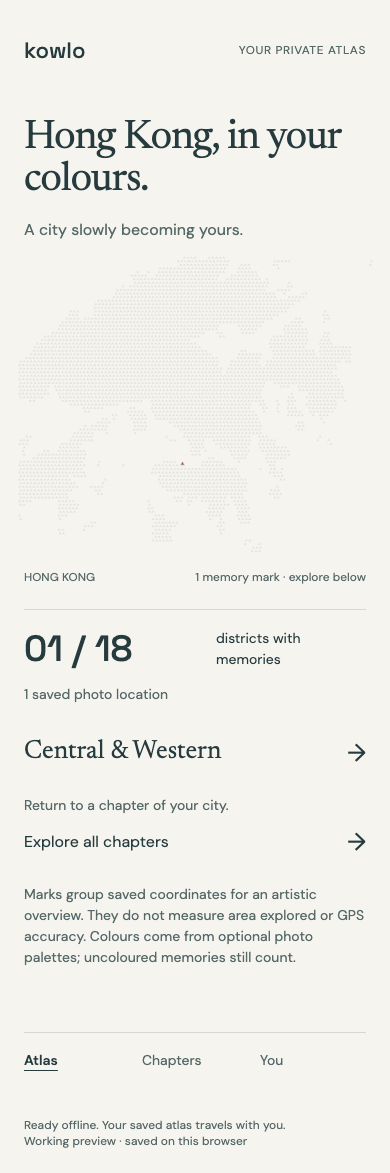
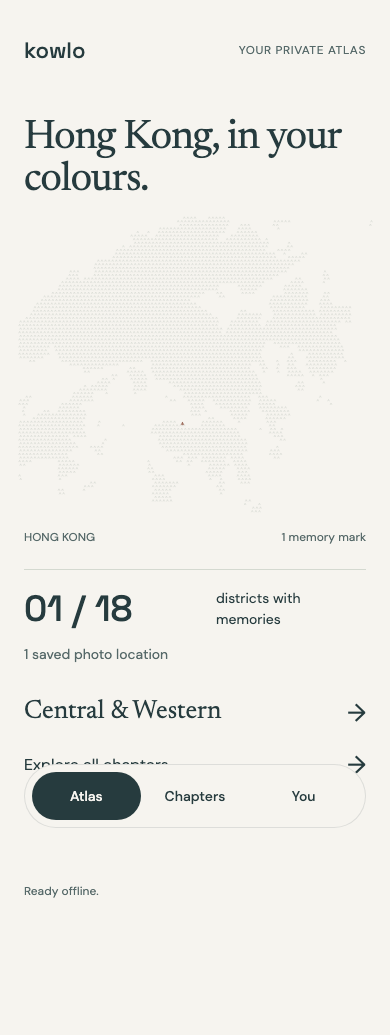
Refine KOWLO navigation, essential copy and accessible motion

diff --git a/app/styles.css b/app/styles.css
@@ -6,4 +6,71 @@
 .shell{max-width:1152px;margin:auto;padding:0 24px}.masthead{display:flex;align-items:center;justify-content:space-between;gap:16px;padding:36px 0 30px}.brand{font:500 22px/28px "Space Grotesk",sans-serif;text-decoration:none}.eyebrow,figcaption,footer{font-size:12px;line-height:16px;color:var(--muted)}.eyebrow{text-transform:uppercase;letter-spacing:.05em}
 main{min-height:60vh;padding:24px 0}main:focus{outline:none}h1,h2,h3,p,figure{margin:0}h1{font:400 40px/1.05 Newsreader,Georgia,serif;letter-spacing:-.02em;max-width:650px}h2{font:400 30px/1.1 Newsreader,Georgia,serif}h3,.chapter-title{font:400 26px/1.16 Newsreader,Georgia,serif}p{margin-top:16px;color:var(--muted)}.intro{max-width:580px}.atlas-figure{position:relative;margin:12px -8px 24px}.atlas-map{width:100%;height:auto;display:block;overflow:visible}.atlas-map .mark{stroke-width:2.4;stroke-linecap:round;stroke-linejoin:round;fill:none}.atlas-map .point{fill:var(--ink)}figcaption{display:flex;justify-content:space-between;gap:12px;margin:12px 8px 0}.summary{border-top:1px solid var(--line);padding:18px 0 22px}.district-total{display:flex;align-items:center;justify-content:space-between;gap:20px}.number{font:500 36px/42px "Space Grotesk",sans-serif;white-space:nowrap}.number span{color:var(--muted)}.count-label{font-size:14px;max-width:150px}.summary>p{font-size:14px;margin-top:14px}.text-link{display:flex;align-items:center;justify-content:space-between;gap:16px;min-height:52px;text-decoration:none}.text-link::after{content:"→";font:24px "DM Sans",sans-serif}.chapter-list,.memory-list{list-style:none;padding:0;margin:26px 0}.chapter-list>li,.memory-list>li{border-top:1px solid var(--line);padding:14px 0}.chapter-meta{display:flex;align-items:center;justify-content:space-between;gap:12px;color:var(--muted);font-size:14px}.swatches{display:flex;gap:5px;align-items:center}.swatches svg{width:14px;height:14px}.section-space{margin-top:36px}.back{display:inline-flex;min-height:48px;align-items:center;font-size:14px;margin-bottom:18px}.evidence{margin:26px 0;display:grid;grid-template-columns:1fr;gap:18px}.evidence dt{font-size:12px;color:var(--muted);text-transform:uppercase;letter-spacing:.03em}.evidence dd{margin:4px 0 0;overflow-wrap:anywhere}.note{white-space:pre-wrap;overflow-wrap:anywhere;color:var(--ink)}label{display:block;margin:24px 0 8px}textarea,input{display:block;background:transparent;border:1px solid var(--line);border-radius:0;width:100%;padding:12px}textarea{min-height:130px;resize:vertical}button{min-height:48px;padding:10px 18px;border:1px solid var(--ink);background:transparent;margin:16px 12px 0 0}.primary{background:var(--ink);color:var(--paper)}.danger{color:#8a3934;border-color:#8a3934}.notice{font-size:14px;max-width:640px}.empty{padding:24px 0}.empty h2{max-width:480px}details{margin:28px 0;border-top:1px solid var(--line);padding-top:12px}summary{cursor:pointer;min-height:48px;display:flex;align-items:center}.snapshot-note{font-size:14px}.download{display:inline-flex;align-items:center;min-height:48px}.skip{position:absolute;left:16px;top:-100px;background:var(--paper);padding:12px;z-index:2}.skip:focus{top:8px}#status{font-size:14px;min-height:24px;margin:0 0 16px}nav{border-top:1px solid var(--line);display:flex;gap:12px}nav a{display:flex;align-items:center;min-height:56px;flex:1;text-decoration:none;font-size:14px;color:var(--muted)}nav a[aria-current=page]{color:var(--ink);font-weight:600;text-decoration:underline}footer{padding:12px 0 24px}hr{border:0;border-top:1px solid var(--line);margin:28px 0}
 @media(min-width:800px){.shell{padding:0 48px}.masthead{padding:42px 0}.brand{font-size:26px}main{padding:38px 0;min-height:68vh}h1{font-size:60px;line-height:1.04}.atlas-layout{display:grid;grid-template-columns:minmax(280px,.8fr) minmax(360px,1.2fr);gap:20px 48px;align-items:center}.atlas-layout>.intro{grid-column:1;grid-row:1}.atlas-layout>.atlas-figure{grid-column:2;grid-row:1/3;margin:0}.atlas-layout>.atlas-details{grid-column:1;grid-row:2}.chapter-list,.memory-list{max-width:760px}.detail{max-width:760px}.evidence{grid-template-columns:1fr 1fr}nav{max-width:420px}footer{padding-bottom:28px}}
-@media(prefers-reduced-motion:no-preference){.atlas-map .mark{animation:appear .5s ease-out}@keyframes appear{from{opacity:0}to{opacity:1}}}
+
+/* Approved Figma component 215:235: paper glass with an opaque ink selection. */
+html{scroll-padding-bottom:calc(112px + env(safe-area-inset-bottom, 0px))}
+body{padding-bottom:calc(112px + env(safe-area-inset-bottom, 0px))}
+.main-navigation{
+  position:fixed;
+  z-index:10;
+  left:50%;
+  bottom:calc(16px + env(safe-area-inset-bottom, 0px));
+  transform:translateX(-50%);
+  width:calc(100% - 48px);
+  max-width:342px;
+  height:64px;
+  padding:8px;
+  gap:0;
+  border:0;
+  border-radius:32px;
+  background:var(--paper);
+  box-shadow:inset 0 0 0 1px rgb(38 59 62 / 12%);
+}
+.main-navigation a{
+  position:relative;
+  z-index:1;
+  justify-content:center;
+  min-width:0;
+  min-height:48px;
+  border-radius:24px;
+  color:var(--ink);
+  font-size:14px;
+  font-weight:500;
+  line-height:20px;
+  text-decoration:none;
+}
+.main-navigation::before{
+  content:"";
+  position:absolute;
+  inset:8px auto 8px 8px;
+  width:calc((100% - 16px) / 3);
+  border-radius:24px;
+  background:var(--ink);
+  transform:translateX(calc(var(--selected-tab, 0) * 100%));
+  opacity:0;
+  pointer-events:none;
+}
+.main-navigation[data-has-selection=true]::before{opacity:1}
+.main-navigation a[aria-current=page]{color:var(--paper);font-weight:500;text-decoration:none}
+@media(prefers-reduced-motion:no-preference){
+  body[data-ready=true] .main-navigation::before{transition:transform 220ms cubic-bezier(.22,1,.36,1)}
+  .main-navigation a{transition:color 220ms cubic-bezier(.22,1,.36,1)}
+  .text-link::after{transition:transform 160ms cubic-bezier(.22,1,.36,1)}
+  .primary,.danger{transition:transform 120ms ease-out}
+  .primary:active,.danger:active{transform:scale(.98)}
+}
+@media(hover:hover) and (prefers-reduced-motion:no-preference){
+  .text-link:hover::after{transform:translateX(3px)}
+}
+.main-navigation a:focus-visible{outline:2px solid var(--ink);outline-offset:3px}
+@supports ((backdrop-filter:blur(20px)) or (-webkit-backdrop-filter:blur(20px))){
+  .main-navigation{background:rgb(246 244 239 / 90%);-webkit-backdrop-filter:blur(20px);backdrop-filter:blur(20px)}
+}
+@media(prefers-reduced-transparency:reduce){
+  .main-navigation{background:var(--paper);-webkit-backdrop-filter:none;backdrop-filter:none}
+}
+@media(forced-colors:active){
+  .main-navigation::before{display:none}
+  .main-navigation{border:1px solid CanvasText;padding:7px;background:Canvas}
+  .main-navigation a[aria-current=page]{outline:2px solid Highlight;outline-offset:-2px}
+}

diff --git a/app/index.html b/app/index.html
@@ -2,7 +2,7 @@
 <html lang="en">
 <head>
   <meta charset="utf-8">
-  <meta name="viewport" content="width=device-width, initial-scale=1">
+  <meta name="viewport" content="width=device-width, initial-scale=1, viewport-fit=cover">
   <meta name="theme-color" content="#f6f4ef">
   <title>KOWLO — Hong Kong, in your colours</title>
   <link rel="icon" href="/docs/design-assets/kowlo-symbol.svg" type="image/svg+xml">
@@ -18,8 +18,8 @@
     <header class="masthead"><a href="#atlas" class="brand" aria-label="KOWLO home">kowlo</a><span class="eyebrow">Your private atlas</span></header>
     <main id="main" tabindex="-1"><h1>A city taking shape.</h1><p>Opening your local memories…</p></main>
     <p id="status" role="status" aria-live="polite"></p>
-    <nav aria-label="Main navigation"><a href="#atlas">Atlas</a><a href="#chapters">Chapters</a><a href="#you">You</a></nav>
-    <footer><p id="offline-status" role="status">Preparing offline access…</p>Working preview · saved on this browser</footer>
+    <nav class="main-navigation" aria-label="Main navigation"><a href="#atlas">Atlas</a><a href="#chapters">Chapters</a><a href="#you">You</a></nav>
+    <footer><p id="offline-status" role="status">Preparing offline access…</p></footer>
   </div>
 </body>
 </html>

diff --git a/docs/MOTION_FOUNDATION.md b/docs/MOTION_FOUNDATION.md
@@ -1,0 +1,47 @@
+# KOWLO motion foundation
+
+Updated 2026-09-08. Applies to the working atlas and the current Figma navigation variants.
+
+## Colour settles into place
+
+Photographs give the city its colours. Motion should make a change understandable, then become quiet. Geography stays anchored: a saved coordinate does not drift, bounce or move because a screen opened. The folded marks and photographic palettes carry KOWLO's identity; motion supports them.
+
+Every effect must explain a destination change, a changed memory, or a deliberate interaction. Repeated visits should not replay an introduction or imply new achievements. Product screens carry actions, state and necessary consequences. Design rationale belongs in this document.
+
+## Research and implementation choice
+
+| Source | Relevant learning | KOWLO decision |
+| --- | --- | --- |
+| [Motion performance guidance](https://motion.dev/docs/performance) and [Motion source](https://github.com/motiondivision/motion) | Prefer suitable transform/opacity animation; browser acceleration depends on the animated property and rendering conditions. Motion offers a broader animation system. | Use transform for the shared navigation pill and opacity for changed marks. Do not claim guaranteed GPU acceleration or frame rates. |
+| [Anime.js source](https://github.com/juliangarnier/anime) | Timelines and coordinated animation can serve complex scenes. | A timeline library is unnecessary for the current three small interaction patterns. |
+| [WCAG: Animation from Interactions](https://www.w3.org/WAI/WCAG22/Understanding/animation-from-interactions.html) | Users should be able to disable non-essential interaction-triggered motion. | Honour the operating-system reduced-motion preference, including a change while animation is running. |
+
+The Motion and Anime.js repositories were checked as MIT-licensed and not archived during this research. Neither dependency was installed or copied. The existing application uses plain JavaScript; CSS transitions and the browser Web Animations API provide the required cancellation and interpolation without another runtime dependency. Reconsider a library only when a demonstrated interaction requires orchestration that this approach cannot maintain clearly.
+
+These sources inform the mechanism. The timings below are KOWLO design choices, not scientifically established universal optima.
+
+## Motion contract
+
+| Interaction | Behaviour | Timing |
+| --- | --- | --- |
+| Atlas / Chapters / You | One opaque ink pill moves horizontally between equal targets. Text colour follows selection. | 220 ms, cubic-bezier(.22,1,.36,1) |
+| Route change | The new title settles from 60% opacity to full opacity. The map stays still. | 180 ms, same easing |
+| New or changed map mark on the same route | Changed marks fade into their final geographic cell. Unchanged marks do not replay. | 320 ms; 12 ms stagger capped at 120 ms |
+| Primary or destructive button press | Small press response, retaining the full hit target. | Scale .98, 120 ms ease-out |
+| Text-link hover with a mouse | Arrow moves 3 px towards its destination. | 160 ms, same easing |
+
+No looping ambient effects, confetti, parallax, spring overshoot or entrance sequence is needed. Selection remains visible after animation ends. Changing routes cancels obsolete Web Animations effects; rapid navigation must settle on the current destination.
+
+## Accessibility and layout
+
+- Reduced motion removes CSS transitions and skips/cancels Web Animations effects. Content and selection appear immediately.
+- Navigation remains semantic links with `aria-current`, keyboard focus and 48 px minimum targets. Animation is never the sole indicator of selection.
+- The floating surface uses paper at 90% opacity, a restrained border and 20 px blur. Opaque paper is the fallback; reduced transparency disables blur; forced colours use a visible selection outline.
+- Bottom spacing includes the safe-area inset and enough scroll room to reveal the final content above the navigation.
+- Exact coordinates, uncertain location evidence, storage scope and export consequences remain available. Repeated slogans and technical commentary are removed from the primary reading flow.
+
+## Figma and code
+
+The editable component set `236:270` contains Atlas `215:235`, Chapters `236:254` and You `236:262`. Each has a shared pill layer and consistent labels. Prototype navigation uses 220 ms Smart Animate with Figma's ease-out preset. This is an approximation of the CSS easing; runtime reduced-motion behaviour is implemented in the app.
+
+Sources: [app motion](../app/atlas.mjs), [styles](../app/styles.css), [implementation evidence](evidence/essential-motion-implementation.md). Physical-device performance and large-library animation cost remain to be measured before production release.

diff --git a/docs/evidence/essential-motion-implementation.md b/docs/evidence/essential-motion-implementation.md
@@ -1,0 +1,35 @@
+# Restoration, essential copy and motion
+
+Date: 2026-09-08. Scope: KOWLO working web app and existing Figma review frames. Dedicated GitHub remote: `EricEremos/kowlo`.
+
+## Restoration
+
+Restored 132 missing tracked files from the existing HEAD, `4fd6efb`, without replacing modified files. Before/after hashes of the pre-existing modified files matched; no tracked deletions remained. This verifies restoration, not why the files had disappeared. Unrelated timestamp-suffixed Markdown copies were preserved and excluded from this change.
+
+## Changes
+
+- Integrated the previously approved floating Atlas / Chapters / You navigation.
+- Removed repeated slogans, map instructions, diagnostic navigation and the development footer. Kept relevant empty states and failure messages.
+- Moved geographic evidence into closed-by-default Location details; moved storage and atlas explanations into disclosures on You. Export consequences remain next to export.
+- Added the cancellable motion contract in [Motion foundation](../MOTION_FOUNDATION.md): shared selection pill, short title transition, changed-mark reveal and restrained press/hover feedback.
+- Advanced static cache to v4. Existing update waiting and draft preservation remain in place.
+- Updated Figma Atlas `213:220`, Chapters `216:245` and You `213:243`. Component set `236:270` has three selected-destination variants; instances and reusable component reactions point to the current three frames with 220 ms Smart Animate. Removed the Chapters subtitle and corrected storage copy on You.
+
+## Verification
+
+- `node --check app/atlas.mjs`: passed.
+- `npm test`: 46/46 unit tests passed.
+- `scripts/atlas-browser-checks.mjs`: nine groups passed, including five route types at 320/390/768/1440 px, 48 px navigation targets, content clearance, keyboard activation, persistent notes, deletion/export and integrity failure handling. Rapid tab changes settle on the correct selection. Switching reduced motion on cancels effects and disables the pill transition. No page errors or external requests.
+- `scripts/atlas-offline-checks.mjs`: six groups passed. Server-stopped offline reload, edits, deletion and export work. Waiting updates preserve drafts; obsolete-cache cleanup is scoped. Only 18 static resources are cached.
+- Manually used the live app in the Codex in-app browser at port 8788: Atlas → Chapters → You, opened Photo access & storage, then returned to Atlas. Observed the expected destination headings, selected pills and expanded copy. Browser error log was empty.
+- Visually inspected updated desktop/mobile app renders and Figma Chapters/You renders. No overlap or clipping was observed in those checked surfaces. The map remains the visual focus; section rules replace additional containers.
+
+Machine-readable results and synthetic screenshots: [Chromium](atlas/chromium-checks.json), [offline](atlas/offline-checks.json), [mobile atlas](atlas/atlas-mobile.png), [desktop atlas](atlas/atlas-desktop.png). Test records were synthetic in isolated browser contexts; no personal photo library was accessed.
+
+The prior [navigation implementation record](floating-navigation-implementation.md) describes its earlier v3 stage. This record supersedes its cache/version and current test counts.
+
+## Limits
+
+Configured LSP servers could not initialize because the local TypeScript/Biome tooling was unavailable. No dependency was installed solely for that hook; syntax and executable checks above provide the recorded code verification. Safari, physical phone safe areas, screen-reader use and large-library frame-time performance have not been verified in this unit.
+
+Figma remains a design prototype with illustrative records and some proposed actions. The working app reads the local journal; automatic phone-library access, hosted accounts and cloud sync are still in development. This change does not claim the complete beta or those capabilities are finished.

diff --git a/docs/evidence/essential-ui-navigation-review.md b/docs/evidence/essential-ui-navigation-review.md
@@ -1,0 +1,41 @@
+# Essential UI and floating navigation review
+
+Date: 2026-09-07. Scope: editable Figma review frames; no production interface changes.
+
+The user asked whether the interface contained only necessary elements and proposed translucent bottom navigation. The revision gives each primary destination a distinct purpose while removing repeated messaging. Originals remain available.
+
+## Decisions
+
+| Element | Decision and reason |
+| --- | --- |
+| Atlas slogans and repeated Hong Kong labels | Remove duplicates so the memory print carries the visual emphasis. |
+| Repeated photo/place totals | Keep one district-progress measure on Atlas; show a chapter's photo count beside its entry. |
+| Chapters repeating the Atlas map | Replace with an open, ruled district index. This destination now supports browsing. |
+| Duplicate import/settings entry | Remove the second entry leading to the same import screen. Existing import preferences remain in that flow. |
+| Privacy and data consequences | Keep at the relevant decision point. These cannot be replaced with design comments. |
+| Design rationale and implementation details | Keep in component documentation and this evidence record, outside the product's main reading flow. |
+| Bottom navigation | One reusable, translucent floating component; three equal destinations with visible labels and a solid selected pill. |
+
+## Review artifacts
+
+Figma file: `whw3t850Pcj9LrSiBa8rwn`, page `76:2`.
+
+- Atlas: `213:220`
+- Chapters: `216:245`
+- You: `213:243`
+- Floating navigation component: `215:235`
+- [Review prototype](https://www.figma.com/proto/whw3t850Pcj9LrSiBa8rwn/Hong-Kong-Footprints?node-id=213-220&page-id=76%3A2&starting-point-node-id=213%3A220&scaling=scale-down&content-scaling=fixed)
+
+The 390 × 844 review frames use a 342 × 64 navigation surface at x24/y744. Each tab is approximately 108.67 × 48. Labels use DM Sans Medium 14. Paper #F6F4EF at 90% opacity and an ink #263B3E border at 12% opacity are native RGBA variables; background blur is 20. The active pill uses opaque ink and paper text. No drag, rearrangement or automatic hiding is proposed.
+
+## Verification
+
+- Visually inspected Atlas, Chapters and You screenshots. Corrected inherited label widths, alignment and an obsolete underline.
+- A final token readback caught opaque fills inherited from RGB variables. Added alpha-bearing navigation variables and verified the instance reports 0.90 fill / 0.12 border opacity. Re-rendered the final Atlas successfully.
+- Real in-app browser prototype clicks passed: Atlas → Chapters → You → Atlas. URL node IDs and rendered destination contents changed accordingly.
+- Calculated active text contrast: 10.75:1. Inactive ink against 90% paper composited over black: 8.59:1. These are colour calculations, not a full accessibility certification.
+- Three primary screens retain native component instances, editable text and working tab reactions.
+
+## Limits
+
+Counts, district selection and artwork are illustrative. Six district rows are layout examples without detail destinations; Central & Western links to the existing chapter proposal. Existing export/manage rows are static proposals. The existing chapter and import screens were not redesigned in this unit. No production integration, device safe-area behavior, reduced-transparency fallback or responsive-width verification is claimed. The automatic phone-library delivery decision remains separate from this navigation review.

diff --git a/docs/evidence/floating-navigation-implementation.md b/docs/evidence/floating-navigation-implementation.md
@@ -1,0 +1,26 @@
+# Approved floating navigation implementation
+
+Date: 2026-09-07. User approved the screenshot of the Atlas / Chapters / You navigation and requested proceeding. This unit implements that component in the working web app; the broader native-library and hosted-sync decisions remain separate.
+
+## Implementation
+
+- Source: Figma component `215:235`, review Atlas `213:220`; see [design evidence](essential-ui-navigation-review.md).
+- Existing semantic navigation links and `aria-current` route logic retained, including Chapters selection for district and memory routes.
+- 342 × 64 maximum surface, 24px minimum side margins, 8px inset, equal 48px targets, 32px outer radius, 24px selected radius. DM Sans Medium 14; solid #263B3E active pill and #F6F4EF text.
+- 90% paper surface with 20px background blur and a 12% ink inset border. Opaque paper is the base fallback; reduced transparency disables blur. Forced-colour selection and keyboard focus have explicit outlines.
+- Fixed bottom placement includes the device safe-area inset. Document bottom space and scroll padding allow the last content to clear the bar. No dragging or automatic hiding.
+- Static offline cache release advanced from v2 to v3 so existing installations can acquire changed HTML/CSS using the existing wait-until-tabs-close update lifecycle.
+
+## Verification
+
+`scripts/atlas-browser-checks.mjs`: PASS, eight scenarios. Existing journal/navigation/data tests pass. Added viewport checks at 320, 390, 768 and 1440px across five routes: no horizontal overflow, bar within margins, 48px targets, one selected destination, and bottom content clear at the end of scrolling. Real keyboard Tab/Enter activates Chapters; pointer clicks activate You and Atlas. Focus outline present. No page errors or external requests.
+
+`scripts/atlas-offline-checks.mjs`: PASS, six scenarios, including update waiting, saved drafts, cache retirement, offline reload/edit/export/deletion and static-cache exclusions. The next-version test now simulates v3 → v4.
+
+Visually inspected the resulting mobile and desktop renders. Screenshots and machine-readable output are in [atlas evidence](atlas/), including `atlas-mobile.png`, `atlas-desktop.png`, `navigation-keyboard.png`, and `chromium-checks.json`. All seeded memories are synthetic and exist only in isolated test browser contexts.
+
+`git diff --check` and service-worker JavaScript syntax check: PASS. LSP diagnostics unavailable because the configured servers/runtime are missing; no installation performed.
+
+## Limits
+
+Verified in local Chromium. Physical iPhone/Android safe areas, Safari, virtual-keyboard behavior and assistive-technology use remain unverified. Reduced-transparency and forced-colour styles are implemented but not separately certified. This is a navigation implementation, not a claim that the full Figma redesign, automatic photo-library access or hosted sync has shipped. No deployment or push in this unit.
